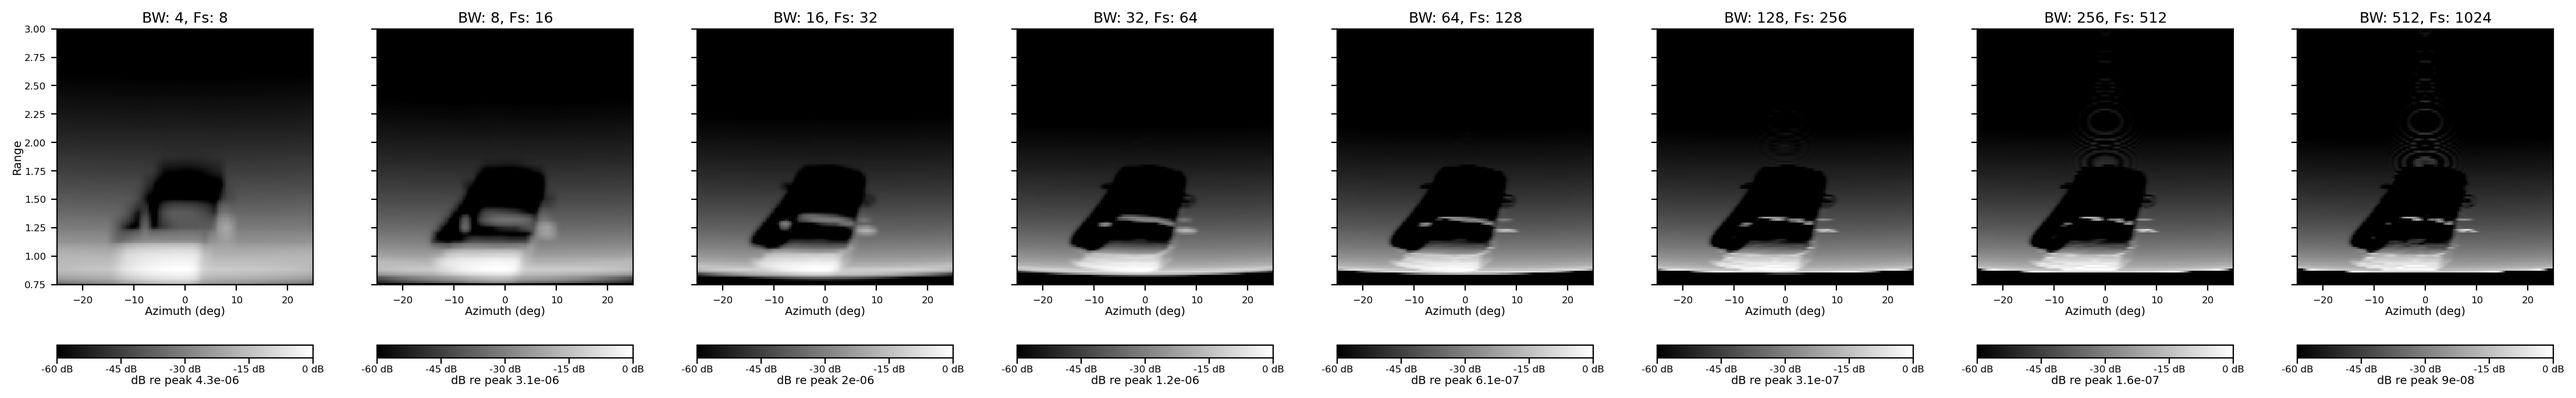
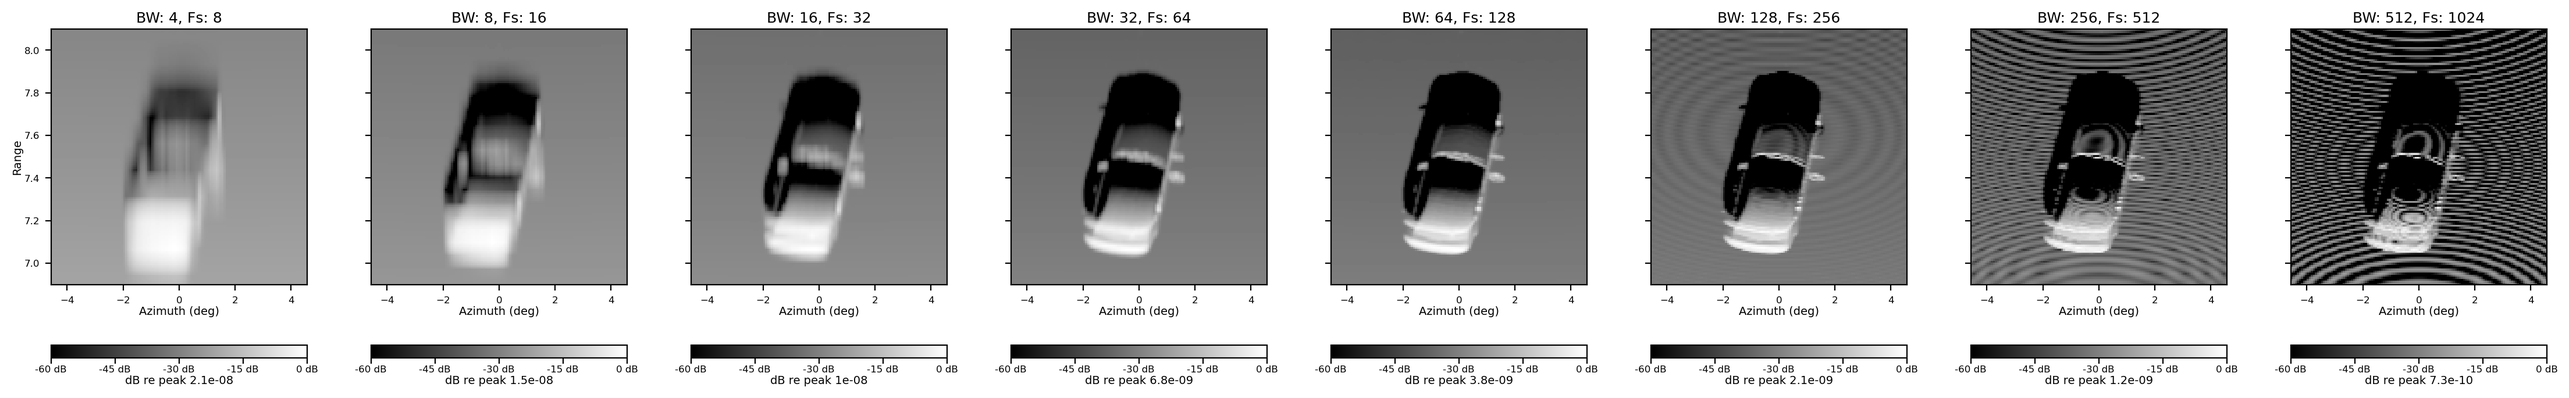
paper: sonar experiments at current defaults
Claude-Session: https://claude.ai/code/session_01GGmVrkSgyd4LF9qZZbmMeN

diff --git a/latex/main.tex b/latex/main.tex
@@ -740,28 +740,32 @@ The remaining experiments test the two sonar modalities of Section \ref{sec:moda
 (Appendices \ref{sec:forward-looking} and \ref{sec:side-scan}) on a second car from the ShapeNet
 cars dataset. They use the same ray tracer, material model, and interposummation as the SAR
 experiments above. The car scatters almost entirely into the directional lobe and the
-seafloor mostly diffusely, so the car appears dark against the seafloor, apart from glints where its
-surface faces the sensor.
+seafloor mostly diffusely, so the surfaces of the car that face the sensor return brightly, while
+the rest of the car and its acoustic shadow are dark against the seafloor.
 
 In Figure \ref{fig:fls-beam-width}, we vary the azimuth beam width $\beta$ of the forward-looking
-sonar of Appendix \ref{sec:forward-looking} logarithmically from $0.1^\circ$ to $10^\circ$. The sensor
-sits at a range of $\lVert\vec{v}\rVert = 1.3$ and an elevation of $e = 40.6^\circ$, and steers
-$P = 128$ pings across $\Theta_p = 50^\circ$, one every $0.39^\circ$. Its fan of
-$R_h \times R_w = 1024 \times 1024$ rays spans $\Theta_h = 100^\circ$ in elevation and
-$\Theta_w = 60^\circ$ in azimuth. The $M = 128$ rows run from $\rho_{near} = 0.75$ to
-$\rho_{far} = 3$, the pulse is Gaussian with $B_s = 30$, and no wavelength is given. Each panel is
-shown in dB relative to its own peak, with a floor of $-60$~dB.
+sonar of Appendix \ref{sec:forward-looking} logarithmically from $0.1^\circ$ to $10^\circ$, with the
+other parameters at their defaults (Table \ref{tab:fls-params}). The sensor sits at a range of
+$\lVert\vec{v}\rVert = 7.5$ and an elevation of $e = 40.6^\circ$, and steers $P = 128$ pings across
+$\Theta_p = 9.15^\circ$, one every $0.072^\circ$. Its fan of $R_h \times R_w = 550 \times 350$ rays
+spans $\Theta_h = 23^\circ$ in elevation and $\Theta_w = 10^\circ$ in azimuth. The $M = 128$ rows
+span $S_\rho = 1.2$, from $\rho_{near} = 6.9$ to $\rho_{far} = 8.1$, the pulse is Gaussian with
+$B_s = 32$, and no wavelength is given. Each panel is shown in dB relative to its own peak, with a
+floor of $-60$~dB.
 
-At $0.1^\circ$, the car and its shadow form a sharp dark silhouette on the seafloor, crossed by
-bright glints. The $0.1^\circ$ and $0.32^\circ$ images are nearly identical, because both beams are
-narrower than the spacing of the pings, which then sets the azimuth resolution: the $10$--$90\%$
-width of the edge of the silhouette is $0.39^\circ$, a single ping, in both. From $1^\circ$ on, the
-beam sets the resolution, and the edge widens with it, to $0.79^\circ$ at $1^\circ$, $2.4^\circ$ at
-$3.16^\circ$, and $7.5^\circ$ at $10^\circ$, where the silhouette blurs into a dark smear and the
-glints into streaks of constant range. Range is unaffected, since it is resolved by $B_s$. The peak
-grows roughly in proportion to $\beta$, from $1.2\times10^{-7}$ at $0.1^\circ$ to
-$8.9\times10^{-6}$ at $10^\circ$. The fan is the same at every width, and the beam pattern peaks at
-$1$ rather than integrating to $1$, so a wider beam sums the returns of more rays into each ping.
+At $0.1^\circ$, the car and its shadow form a sharp silhouette on the seafloor: the near side of the
+car is bright, and its roof and the shadow behind it are dark. Even the narrowest beam spans
+$1.4$ ping spacings, so the beam rather than the pings sets the azimuth resolution at every width,
+and the $10$--$90\%$ width of the edge of the shadow grows with it, from $0.15^\circ$, two pings, at
+$0.1^\circ$ to $0.36^\circ$ at $0.32^\circ$ and $1.06^\circ$ at $1^\circ$. At $3.16^\circ$ the beam
+is wider than the $3^\circ$ shadow, whose darkest point rises to $42\%$ of the amplitude of the
+seafloor, and at $10^\circ$ the shadow is gone and the returns of the car spread into streaks of
+constant range across the image. Range is unaffected, since it is resolved by $B_s$. The peak, on
+the near side of the car, grows roughly in proportion to $\beta$ up to $1^\circ$, from
+$6.8\times10^{-9}$ to $5.6\times10^{-8}$. The fan is the same at every width, and the beam pattern
+peaks at $1$ rather than integrating to $1$, so a wider beam sums the returns of more rays into
+each ping. Beyond $1^\circ$ the growth slows, to $1.0\times10^{-7}$ at $10^\circ$, as the beam comes
+to cover most of the $10^\circ$ fan.
 
 \begin{figure}[H]
   \centering
@@ -776,26 +780,28 @@ $1$ rather than integrating to $1$, so a wider beam sums the returns of more ray
 
 In Figure \ref{fig:fls-fsbw}, we vary the spatial bandwidth $B_s$ of the forward-looking sonar from
 $4$ to $512$ in powers of two, with $F_s = 2B_s$ and the other settings of Figure
-\ref{fig:fls-beam-width} at $\beta = 1^\circ$. The Gaussian pulse has an amplitude full width at
-half maximum of $0.62/B_s$, which spans $8.8$ rows at $B_s = 4$ and one row at $B_s \approx 35$.
+\ref{fig:fls-beam-width} at their defaults, so $\beta = 0.1^\circ$. The Gaussian pulse has an
+amplitude full width at half maximum of $0.62/B_s$, which spans $16$ rows at $B_s = 4$ and one row at
+$B_s \approx 66$.
 
-At $B_s = 4$, the silhouette of the car is smeared in range, and the bright returns at the near edge
-of the image spill into its bottom rows. Those rows lie nearer than the seafloor directly beneath
-the sensor, at a range of $0.85$, and go dark as the bandwidth grows. The car sharpens in range with
-the bandwidth, and by $B_s = 32$ its outline and glints are resolved. The peak lies at the near edge
-of the image in front of the car, and from $B_s = 16$ on it roughly halves with every doubling of
-$B_s$, from $2.0\times10^{-6}$ to $9.0\times10^{-8}$ at $B_s = 512$. This is the signature of returns
-spread continuously over range, of which a narrower pulse gathers fewer.
+At $B_s = 4$, the car is smeared in range into a bright blob, and the edges of its shadow are soft.
+The car sharpens in range with the bandwidth, and by $B_s = 32$ its outline and glints are resolved.
+The seafloor is a continuum of returns, of which a narrower pulse gathers fewer, so its amplitude
+halves with every doubling of $B_s$. The peak, on the near side of the car, is more compact in
+range and falls more slowly, by a factor of $0.55$--$0.72$ per doubling, from $2.1\times10^{-8}$ at
+$B_s = 4$ to $7.3\times10^{-10}$ at $512$. The seafloor therefore darkens relative to the peak, from
+$-27$~dB at $B_s = 4$ to $-36$~dB at $64$.
 
-From $B_s = 128$ on, concentric rings centered on boresight appear in the seafloor behind the car.
-This is the ray density effect of Figure \ref{fig:signals-square}. The pulse has become narrower
-than the range spacing between the seafloor returns of neighboring rays, which grows with range as
-the fan meets the seafloor at ever shallower angles, from $0.0026$ at the range of the car to
-$0.0073$ at a range of $2$. Each signal then resolves the returns of individual rays, and the dark
-rings trace the pixels whose ranges fall between them. Just behind the car, the standard deviation
-of the seafloor is about $3$~dB for $B_s \le 64$, but $12$~dB at $B_s = 256$ and $32$~dB at $512$,
-where the dark rings are nulls. As with SAR, a denser fan or a lower bandwidth removes the rings:
-raising $R_h$ from $1024$ to $4096$ at $B_s = 512$ is enough.
+From $B_s = 128$ on, concentric rings centered on boresight appear in the seafloor. This is the ray
+density effect of Figure \ref{fig:signals-square}. The pulse has become narrower than the range
+spacing between the seafloor returns of neighboring rays, which grows with range as the fan meets
+the seafloor at ever shallower angles, from $0.0050$ at the near edge of the image to $0.0078$ at
+the far edge, against a pulse width of $0.0048$ at $B_s = 128$ and $0.0024$ at $256$. Each signal
+then resolves the returns of individual rays, and the dark rings trace the pixels whose ranges fall
+between them. Beside the car, the standard deviation of the seafloor is $0.8$~dB for
+$B_s \le 64$, but $1.6$~dB at $B_s = 128$, $8.7$~dB at $256$, and $32$~dB at $512$, where the dark
+rings are nulls. As with SAR, a denser fan or a lower bandwidth removes the rings: raising $R_h$
+from $550$ to $2200$ at $B_s = 512$ brings the standard deviation back to $1.0$~dB.
 
 \begin{figure}[H]
   \begin{adjustwidth}{-\extralength}{0cm}
@@ -810,37 +816,39 @@ raising $R_h$ from $1024$ to $4096$ at $B_s = 512$ is enough.
 \subsection{Side-Scan Sonar Beam Width}
 
 In Figure \ref{fig:ss-beam-width}, we vary the azimuth beam width $\beta$ of the side-scan sonar of
-Appendix \ref{sec:side-scan} logarithmically from $0.1^\circ$ to $10^\circ$. The platform passes the
-car of Figure \ref{fig:fls-beam-width} from a steeper pose, at a range of
-$\lVert\bar{\vec{v}}\rVert = 10$ and an elevation of $e = 59.3^\circ$. The $P = 128$ pings are
-spaced over a track of length $L = 1.1$, and each $128 \times 128$ image covers $S_\ell = S_\rho = 1.1$.
-Each ping casts a fan of $R_h \times R_w = 700 \times 250$ rays over $\Theta_h = 30^\circ$ in
-elevation and $\Theta_w = 3\beta$ in azimuth. The $250$ azimuth rays are enough for the image to
-converge even at $10^\circ$, where they are spread the most sparsely. The pulse is Gaussian with
-$B_s = 30$, the time-varying gain is $\eta = 10$, and no wavelength is given, so the returns add
-without their carrier phase.
+Appendix \ref{sec:side-scan} logarithmically from $0.1^\circ$ to $10^\circ$, with the other
+parameters at their defaults (Table \ref{tab:sss-params}) except the number of azimuth rays. The
+platform passes the car of Figure \ref{fig:fls-beam-width} from a steeper pose, at a range of
+$\lVert\bar{\vec{v}}\rVert = 7.5$ and an elevation of $e = 59.3^\circ$. The $P = 128$ pings are
+spaced over a track of length $L = 1.2$, and each $128 \times 128$ image covers
+$S_\ell = S_\rho = 1.2$. Each ping casts a fan of $R_h \times R_w = 550 \times 250$ rays over
+$\Theta_h = 23^\circ$ in elevation and $\Theta_w = 3\beta$ in azimuth, in place of the default single
+boresight ray, which would leave the beam nothing to weight. The $250$ azimuth rays are enough for
+the image to converge even at $10^\circ$, where they are spread the most sparsely. The pulse is
+Gaussian with $B_s = 30$, there is no time-varying gain, spreading, or absorption, and no
+wavelength is given, so the returns add without their carrier phase. Each panel is shown in dB
+relative to its own peak, with a floor of $-60$~dB.
 
-At the range of the car, $\rho \approx 10$, a $0.1^\circ$ beam covers $\rho\beta \approx 0.017$ of
-the track, about two pixels, and the image resolves the outline of the car. The returns of the car
+At the range of the car, $\rho \approx 7.5$, a $0.1^\circ$ beam covers $\rho\beta \approx 0.013$ of
+the track, about $1.4$ pixels, and the image resolves the outline of the car. The returns of the car
 lie at near range, and behind them the car casts an acoustic shadow in which the seafloor returns
 almost nothing. As the beam widens, each return is smeared along the track over $\rho\beta$ while
-its range is unchanged. The ends of the car soften by $1^\circ$, where $\rho\beta \approx 0.17$, and
-at $3.16^\circ$ the beam covers half of the image and the car stretches into streaks that span it.
-At $10^\circ$, $\rho\beta \approx 1.7$ exceeds the width of the image, so every ping hears nearly
-the whole car and each row is almost constant: the standard deviation of a row averages $3.5\%$ of
-its mean, against $44\%$ at $0.1^\circ$. The streaks stay at the same ranges as the car in the
-$0.1^\circ$ panel, since range resolution is set by $B_s$ rather than $\beta$. The shadow fills in
-as well, since a ping whose beam reaches past the ends of the car hears unshadowed seafloor at the
-ranges of the shadow. Its mean amplitude rises from $0.3\%$ of the seafloor's at $0.1^\circ$ to
-$71\%$ at $10^\circ$.
+its range is unchanged. The ends of the car soften by $1^\circ$, where $\rho\beta \approx 0.13$, and
+at $3.16^\circ$ the beam covers a third of the image and the car stretches into streaks across it.
+At $10^\circ$, $\rho\beta \approx 1.3$ exceeds the width of the image, so every ping hears nearly
+the whole car and each row is nearly constant: across the rows of the car and its shadow, the
+standard deviation of a row averages $14\%$ of its mean, against $102\%$ at $0.1^\circ$. The streaks
+stay at the same ranges as the car in the $0.1^\circ$ panel, since range resolution is set by $B_s$
+rather than $\beta$. The shadow fills in as well, since a ping whose beam reaches past the ends of
+the car hears unshadowed seafloor at the ranges of the shadow. Its mean amplitude rises from
+$0.4\%$ of the seafloor beside it at $0.1^\circ$ to $28\%$ at $3.16^\circ$ and $69\%$ at $10^\circ$.
 
-Each panel is normalized to its own peak, printed beneath its colorbar. Unlike the fixed fan of
-Figure \ref{fig:fls-beam-width}, this fan widens with the beam, so the same number of rays falls
-under the beam at every width. Widening the beam therefore averages the brightest returns of the car
-with their darker surroundings, and the peak falls from $7.6\times10^2$ at $0.1^\circ$ to
-$1.6\times10^2$ at $10^\circ$. The seafloor is uniform along the
-track, so the averaging leaves it unchanged, and its median amplitude agrees to within about $1\%$
-across the panels. Relative to the falling peak, it brightens into the gray background of the
+Unlike the fixed fan of Figure \ref{fig:fls-beam-width}, this fan widens with the beam, so the same
+number of rays falls under the beam at every width. Widening the beam therefore averages the
+brightest returns of the car with their darker surroundings, and the peak falls from
+$8.7\times10^{-4}$ at $0.1^\circ$ to $2.2\times10^{-4}$ at $10^\circ$. The seafloor is uniform along
+the track, so the averaging leaves it unchanged, and its median amplitude agrees to within about
+$1\%$ across the panels. Relative to the falling peak, it brightens into the gray background of the
 $10^\circ$ panel.
 
 \begin{figure}[H]
@@ -848,7 +856,7 @@ $10^\circ$ panel.
   \includegraphics[trim=0 0 0 0, clip, width=\textwidth]{figs/side_scan_stitched_beam_width.png}
   \caption{Side-scan sonar images of a car as the azimuth beam width $\beta$ widens from
   $0.1^\circ$ to $10^\circ$. Along-track position runs horizontally and slant range vertically,
-  with near range at the bottom. Each panel is normalized to its own peak, printed beneath its
+  with near range at the bottom. Each panel is in dB relative to its own peak, printed beneath its
   colorbar.}
   \label{fig:ss-beam-width}
 \end{figure}
@@ -858,24 +866,27 @@ $10^\circ$ panel.
 In Figure \ref{fig:ss-fsbw}, we vary the spatial bandwidth $B_s$ of the side-scan sonar from $4$ to
 $512$ in powers of two, with $F_s = 2B_s$ and the geometry of Figure \ref{fig:ss-beam-width}. Each
 ping casts a single ray in azimuth, on boresight, so the beam does not blur the image along the
-track and only its range resolution changes. The pulse width of $0.62/B_s$ spans $18$ rows at
-$B_s = 4$ and one row at $B_s \approx 72$.
+track and only its range resolution changes. The pulse width of $0.62/B_s$ spans $16$ rows at
+$B_s = 4$ and one row at $B_s \approx 66$.
 
-At $B_s = 4$, the car is a blur, and the returns smeared into its shadow fill it to $90\%$ of the
-level of the seafloor. As the bandwidth grows the shadow empties, to $33\%$ at $B_s = 8$ and $7\%$
-at $16$, and by $B_s = 32$ the outline of the car, its shadow, and the edges of its body are sharp.
-The seafloor is a continuum of returns, so its amplitude halves with every doubling of $B_s$, from a
-median of $890$ at $B_s = 4$ to $27$ at $128$. The brightest returns of the car are compact in range
-and fall more slowly, so the ratio of the peak to the seafloor grows from $6$ to $34$ over the same
-span, and the seafloor darkens in the normalized panels.
+At $B_s = 4$, the car is a blur, and the returns smeared into its shadow fill it to the level of
+the seafloor beside it. As the bandwidth grows the shadow empties, to $46\%$ at $B_s = 8$, $16\%$
+at $16$, and $3\%$ at $32$, where the outline of the car, its shadow, and the edges of its body are
+sharp. The seafloor is a continuum of returns, so its amplitude halves with every doubling of
+$B_s$, from a median of $5.3\times10^{-4}$ in the far rows at $B_s = 4$ to $1.7\times10^{-5}$ at
+$128$. The brightest returns of the car are compact in range and fall more slowly, so the ratio of
+the peak to the seafloor grows from $10$ to $55$ over the same span, and the seafloor darkens in the
+panels.
 
-At $B_s = 256$ and $512$, the pulse is narrower than the $0.0044$ range spacing between the seafloor
-returns of neighboring rays near the car, and the rings of Figure \ref{fig:fls-fsbw} appear here as
-horizontal stripes. Every ping sees the same flat seafloor through the same fan, so the returns of
+At $B_s = 256$ and $512$, the pulse, $0.0024$ and $0.0012$ wide, is narrower than the
+$0.0040$--$0.0045$ range spacing between the seafloor returns of neighboring rays in the far rows,
+and the rings of Figure \ref{fig:fls-fsbw} appear here as horizontal stripes. The spacing is
+smaller than in the forward-looking sonar because the steeper $59.3^\circ$ look meets the seafloor
+less obliquely. Every ping sees the same flat seafloor through the same fan, so the returns of
 every ping fall at the same ranges, and a row that falls between them is dim along the whole track.
-Across the rows of the far seafloor, the row mean varies by $3\%$, one standard deviation, for
-$16 \le B_s \le 64$, but by $42\%$ at $B_s = 256$ and $118\%$ at $512$. The curved body of the car
-breaks into dots and rings.
+Across the far rows, the row mean varies about its smooth trend in range by about $1\%$, one
+standard deviation, for $B_s \le 128$, but by $23\%$ at $B_s = 256$ and $83\%$ at $512$. The curved
+body of the car breaks into dots and rings.
 
 \begin{figure}[H]
   \begin{adjustwidth}{-\extralength}{0cm}
@@ -883,7 +894,7 @@ breaks into dots and rings.
   \includegraphics[width=\fulllength]{figs/side_scan_stitched_spatial_bw.png}
   \end{adjustwidth}
   \caption{Side-scan sonar images as the spatial bandwidth $B_s$ grows from $4$ to $512$, with
-  $F_s = 2B_s$, laid out as in Figure \ref{fig:ss-beam-width}. Each panel is normalized to its own
+  $F_s = 2B_s$, laid out as in Figure \ref{fig:ss-beam-width}. Each panel is in dB relative to its own
   peak, printed beneath its colorbar.}
   \label{fig:ss-fsbw}
 \end{figure}
